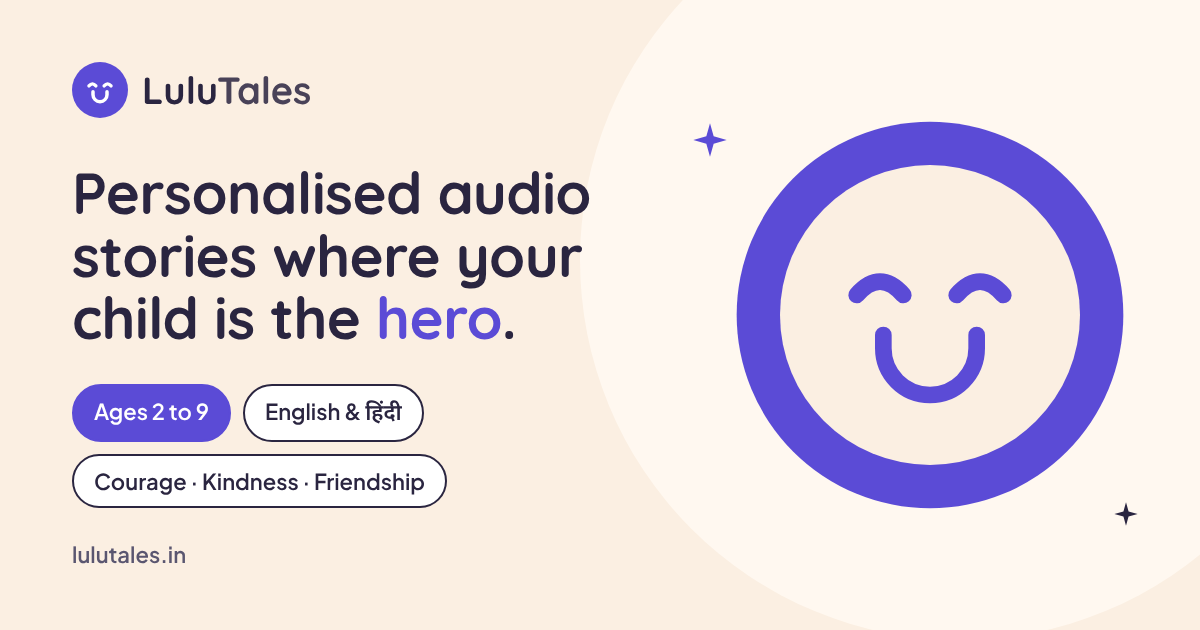
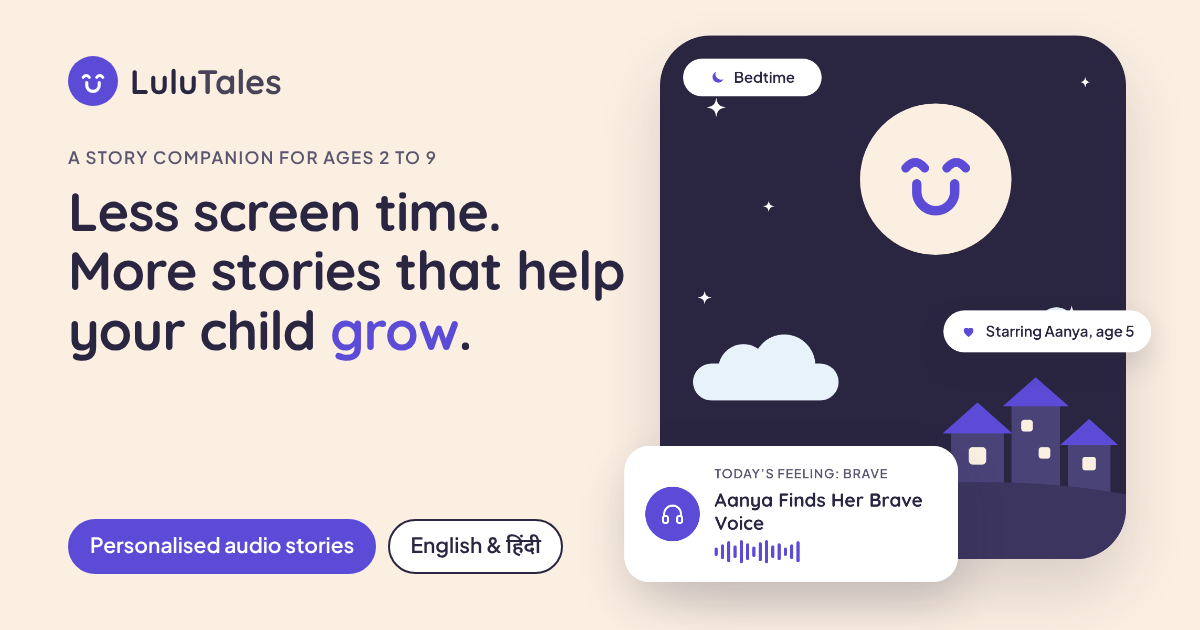
Share image: use the welcome page's bedtime illustration and headline
Claude-Session: https://claude.ai/code/session_01WCRiBxmqjmr8563iy41WGU

diff --git a/index.html b/index.html
@@ -20,7 +20,7 @@
     <meta property="og:image" content="https://lulutales.in/og-image.png" />
     <meta property="og:image:width" content="1200" />
     <meta property="og:image:height" content="630" />
-    <meta property="og:image:alt" content="LuluTales: personalised audio stories for kids, in English and Hindi" />
+    <meta property="og:image:alt" content="LuluTales: less screen time, more stories that help your child grow. Personalised audio stories in English and Hindi." />
     <meta name="twitter:card" content="summary_large_image" />
     <meta name="twitter:title" content="LuluTales – Personalised Audio Stories for Kids, in English & Hindi" />
     <meta name="twitter:description" content="Personalised audio stories where your child is the hero. Each one builds a skill like courage, kindness or friendship. Ages 2 to 9, in English and Hindi." />
